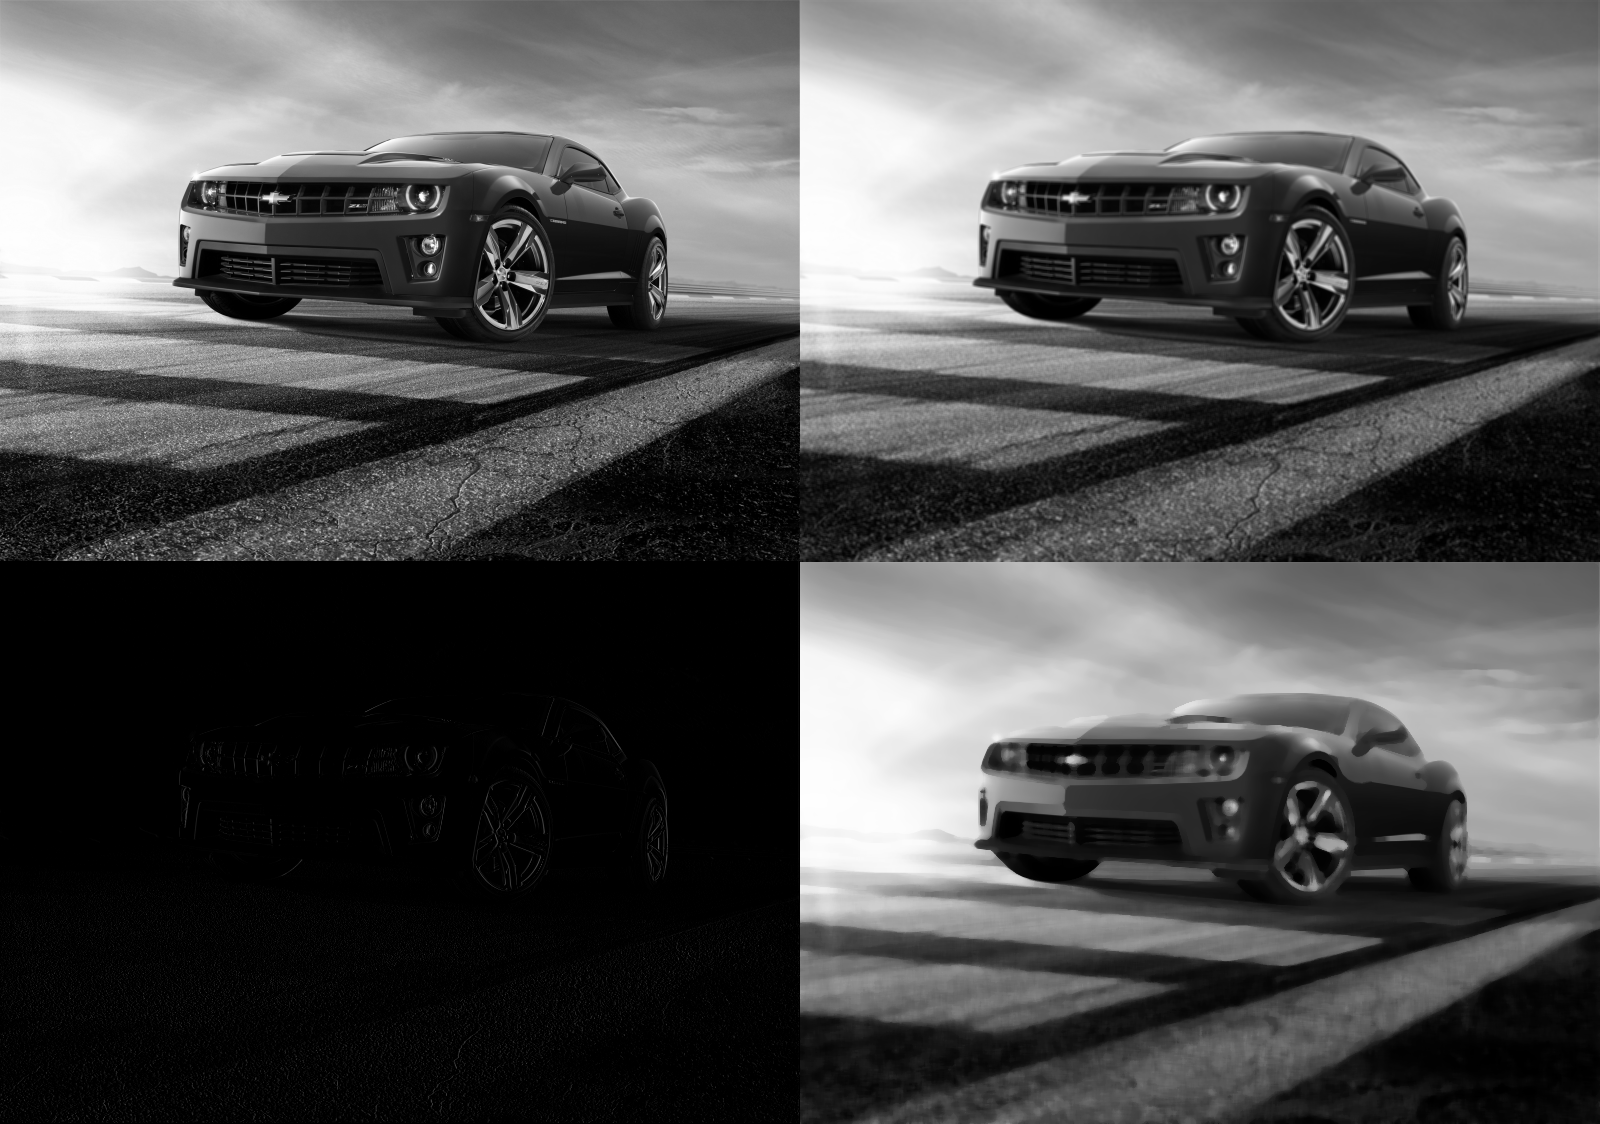
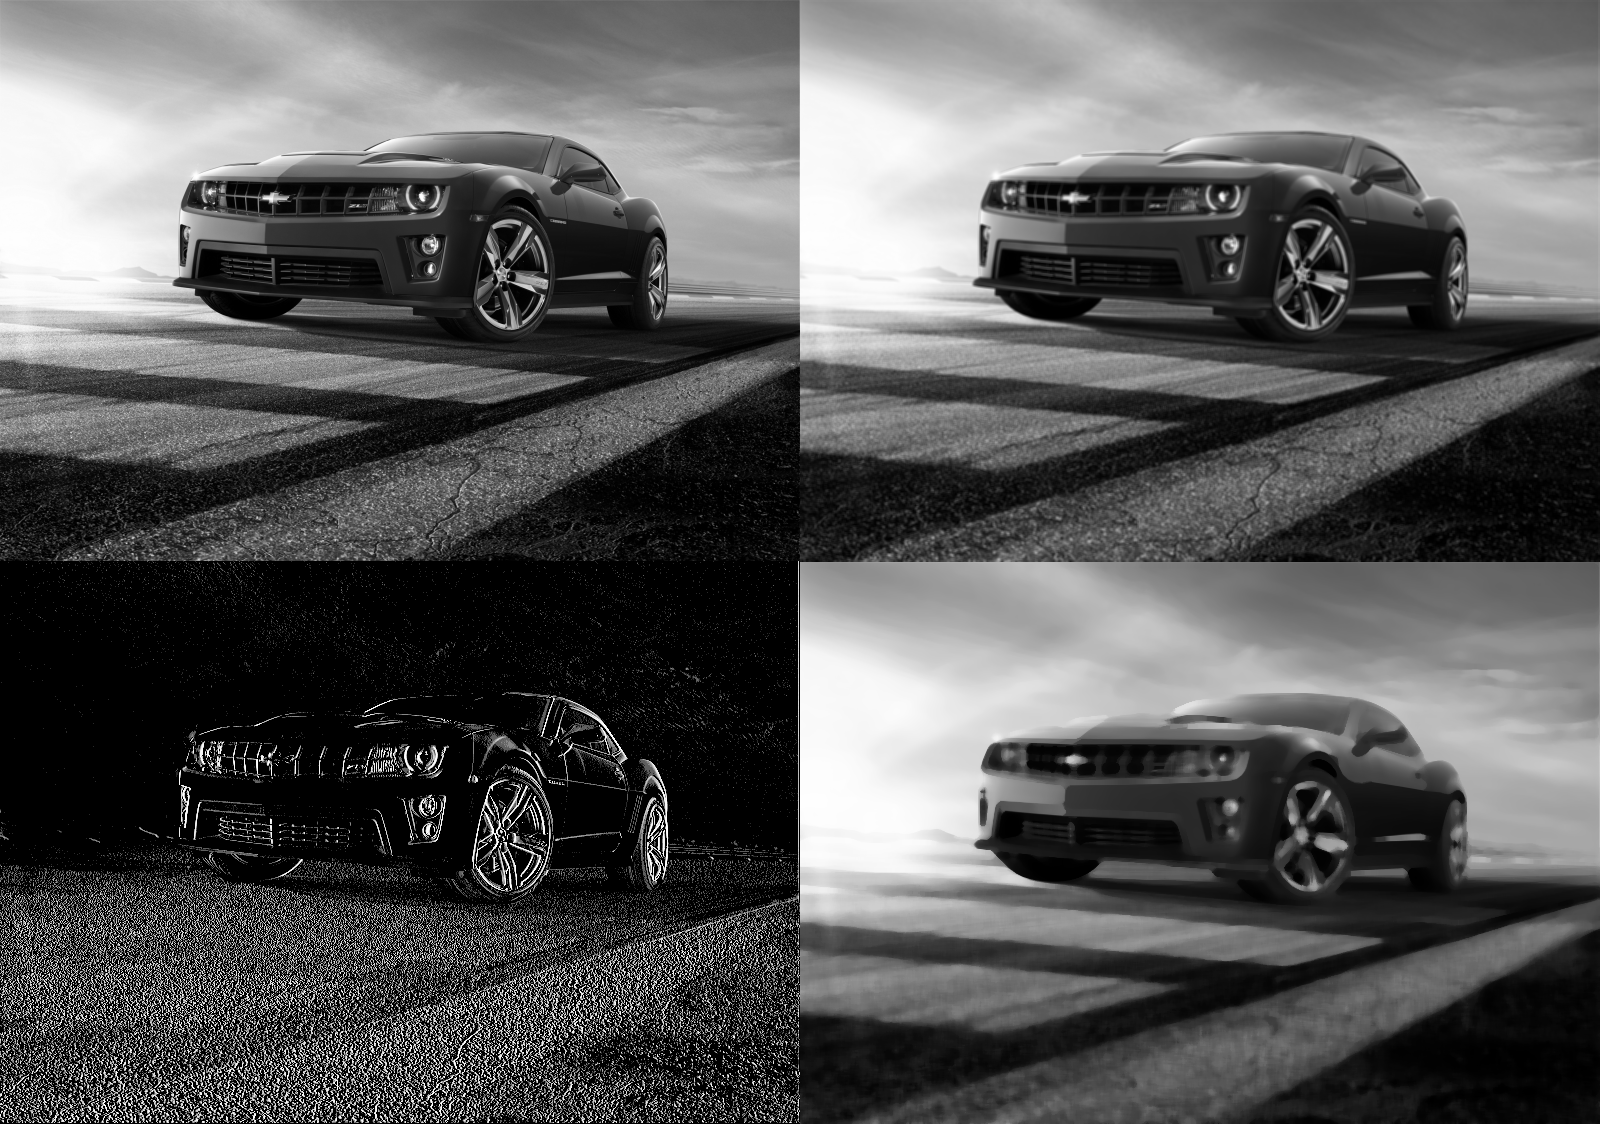
Added equalization for lab4

diff --git a/gruzintsev_a_s/lab4_filters/lab4_filters.cpp b/gruzintsev_a_s/lab4_filters/lab4_filters.cpp
@@ -7,7 +7,9 @@ using namespace std;
 int main() {
     Mat sourceImage = imread("../pictures/camaro.png", CV_LOAD_IMAGE_GRAYSCALE);
 
+
     Mat linearFilterExample;
+    Mat linearFilterEqualized;
     Mat boxFilterExample;
     Mat medianBlurExample;
 
@@ -21,6 +23,8 @@ int main() {
     kernel.at<float>(0, 1) = 0.5f;
 
     filter2D(sourceImage, linearFilterExample, depth, kernel, anchor, delta, BORDER_DEFAULT);
+    equalizeHist(linearFilterExample, linearFilterEqualized);
+
     boxFilter(sourceImage, boxFilterExample, 0, Size(3, 3));
     medianBlur(sourceImage, medianBlurExample, 9);
 
@@ -28,7 +32,7 @@ int main() {
 
     sourceImage.copyTo(combinedImages(Rect(0, 0, sourceImage.cols, sourceImage.rows)));
     boxFilterExample.copyTo(combinedImages(Rect(sourceImage.cols, 0, sourceImage.cols, sourceImage.rows)));
-    linearFilterExample.copyTo(combinedImages(Rect(0, sourceImage.rows - 1, sourceImage.cols, sourceImage.rows)));
+    linearFilterEqualized.copyTo(combinedImages(Rect(0, sourceImage.rows - 1, sourceImage.cols, sourceImage.rows)));
     medianBlurExample.copyTo(
             combinedImages(Rect(sourceImage.cols, sourceImage.rows, sourceImage.cols, sourceImage.rows)));
 

diff --git a/README.md b/README.md
@@ -25,7 +25,7 @@ The goal of this lab is to create contrast correction for the image by clipping 
 The goal of this lab is to try different filters. On the picture below:
 - The top left image is original in grayscale
 - The top right image is an example of box filter with kernel 3x3
-- The bottom left image is an example of applying linear filter with kernel [-0.5, 0.5] which determinies vertical edges of objects
+- The bottom left image is an example of applying linear filter with kernel [-0.5, 0.5] and equalization, which determinies vertical edges of objects
 - The bottom right image is an example of median blur
 
 ![lab4](pictures/lab4.png)
